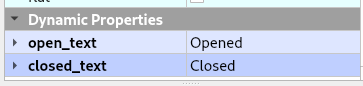
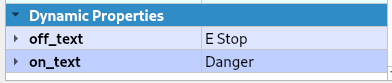
update docs

diff --git a/docs_flex/source/controls.rst b/docs_flex/source/controls.rst
@@ -64,7 +64,7 @@ E Stop and Power
 ----------------
 
 The E Stop push button Open/Closed state text can be set by adding two string
-type Dynamic Properties `open_text` and `closed_text`. The text in those two
+type Dynamic Properties `off_text` and `on_text`. The text in those two
 properties will be used if found. See :doc:`property`
 
 .. image:: /images/estop-01.png
@@ -72,8 +72,7 @@ properties will be used if found. See :doc:`property`
 
 The Power push button On/Off state text can be set by adding two string type
 Dynamic Properties `on_text` and `off_text`. The text in those two properties
-will be used if found. The default text is `Power Off` and
-`Power On`.
+will be used if found.
 
 .. image:: /images/power-01.png
    :align: center